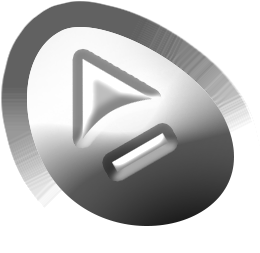
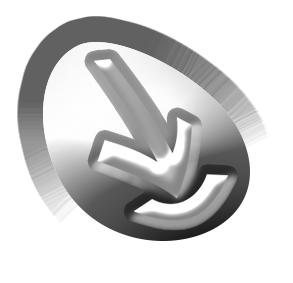
update music player body & dl button

diff --git a/main.js b/main.js
@@ -484,9 +484,8 @@ function checkCommand(input)
 let playPauseBtn = document.getElementById("old-play-pause-btn")
 let volumeSlider = document.getElementById("volume-slider")
 
-let progressBar = document.getElementById("progress-bar-container")
 let oldProgressBar = document.getElementById("old-progress-bar-container")
-let progressFill = document.getElementById("old-progress-bar-fill")
+let oldProgressFill = document.getElementById("old-progress-bar-fill")
 let curTrackText = document.getElementById("cur-track-info")
 
 //load a random song
@@ -521,7 +520,7 @@ let visualiserCanvas = document.getElementById("visualiser")
 let canvasContext = visualiserCanvas.getContext("2d")
 canvasContext.fillStyle = "black"
 
-let artistLink = document.getElementById("artist-link-container").querySelector("a")
+//let artistLink = document.getElementById("artist-link-container").querySelector("a")
 
 let playlistUl = document.getElementById("playlist-content")
 
@@ -592,8 +591,8 @@ function loadTrack()
 		else playlistEntries.item(i).style.backgroundColor = "transparent";
 	}
 
-	artistLink.querySelector("p").textContent = trackList[curIndex].linkName
-	artistLink.href = trackList[curIndex].link 
+	// artistLink.querySelector("p").textContent = trackList[curIndex].linkName
+	// artistLink.href = trackList[curIndex].link 
 }
 
 //curTrack.addEventListener("ended", nextTrack)
@@ -847,7 +846,7 @@ function onFinishSettingVolume()
 function updateProgress()
 {
 	let progress = curTrack.currentTime / curTrack.duration;
-	progressFill.style.width = progress * oldProgressBar.offsetWidth + "px";
+	oldProgressFill.style.width = progress * oldProgressBar.offsetWidth + "px";
 
 	//set time
 	let timeStrings = parseTime(curTrack.currentTime)
@@ -855,7 +854,7 @@ function updateProgress()
 
 	curTimeEl.textContent = timeStrings.min + ":" + timeStrings.sec;
 	miniCurTime.textContent = timeStrings.min + ":" + timeStrings.sec;
-	//console.log("updated progress, progress = " + progress + ", width = " + progressFill.style.width)
+	//console.log("updated progress, progress = " + progress + ", width = " + oldPprogressFill.style.width)
 }
 
 function setProgress(el)

diff --git a/index.html b/index.html
@@ -54,7 +54,8 @@
 			</div>
 
 			<div id="progress-bar-container">
-				<img src="img/music-player-components/progress_bar.png" style="width: 100%">
+				<img src="img/music-player-components/progress_bar.png" style="position: absolute; width: 100%;">
+				<img id="progress-bar-fill" src="img/music-player-components/progress_bar_fill.png" style="position: absolute; width: 10%; z-index: -1;">
 			</div>
 
 			<div id="shuffle-loop-container">
@@ -63,11 +64,6 @@
 			</div>
 
 			<div id="playback-controls">
-				<!-- <button onclick="prevTrack()"><img src="img/music-player-components/prev.png"></button>
-				<button onclick="playTrack()"><img src="img/music-player-components/play.png"></button>
-				<button onclick="pauseTrack()"><img src="img/music-player-components/pause.png"></button>
-				<button onclick="stopTrack()"><img src="img/music-player-components/stop.png"></button>
-				<button onclick="nextTrack()"><img src="img/music-player-components/next.png"></button> -->
 				<button onclick="prevTrack()"><img src="img/btns-shaded/prev2.png"></button>
 				<button onclick="playTrack()"><img src="img/btns-shaded/play2.png"></button>
 				<button onclick="pauseTrack()"><img src="img/btns-shaded/pause2.png"></button>
@@ -77,15 +73,14 @@
 
 			<div id="dl-button-container">
 				<a href="https://www.mediafire.com" target="_blank">
-					<img src="img/music-player-components/dl_button.png">
+					<button id="dl-btn"><img src="img/music-player-components/dl_button.png"></button>
 				</a>
 			</div>
 
 			<div id="artist-link-container">
-				<a target="_blank">
-					<!-- <img src="img/music-player-components/volume_bar.png"> -->
-					<p></p>
-				</a>
+				<!-- <p><a href="https://grasps.bandcamp.com/" target="_blank">grasps.bandcamp.com</a> <a href="https://soundcloud.com/nerdiecuzz" target="_blank">soundcloud.com/nerdiecuzz</a></p> -->
+				<p><a href="https://soundcloud.com/nerdiecuzz" target="_blank">soundcloud.com/nerdiecuzz</a></p>
+
 			</div>
 
 			<div id="playlist-container">

diff --git a/style.css b/style.css
@@ -25,7 +25,7 @@ body
 	--mono-font: "Input-Mono", "Courier New", monospace;
 	--lain-font: "LoveLetter", "Courier New", monospace;
 
-	--music-player-body: url("img/marble_frame.png");
+	--music-player-body: url("img/player_marble_artistlink.png");
 }
 
 p, label, button, option, ul
@@ -423,6 +423,8 @@ hr /*temp*/
 	top: 3%;
 	left: 20%;
 	z-index: 7; 
+
+	text-shadow: 0 0 5px #e1e4eb, 0 0 15px #e1e4eb; 
 /*	--music-player-bg: ghostwhite;
 	--music-player-bg-opacity: 1; */
 }
@@ -634,7 +636,8 @@ so that texts of variable lengths can be scrolled*/
 
 /*pressed down animation*/
 #playback-controls button:active,
-#shuffle-loop-container button:active
+#shuffle-loop-container button:active,
+#dl-button-container button:active
 {
 	transform: translate(1px, 2px);
 	/*box-shadow:  -1px -2px 2px dimgray;*/
@@ -643,24 +646,38 @@ so that texts of variable lengths can be scrolled*/
 #dl-button-container
 {
 	position: absolute;
-	left: 85%; right: 7%; top: 22%; bottom: 69%;
+	left: 85%; right: 7%; top: 21%; bottom: 70%;
+}
+
+#dl-button-container a, #dl-button-container button
+{
+	width: 100%; height: 100%;
+}
+
+#dl-button-container button 
+{
+	outline: none; background: transparent;border: none; 
+	margin: 0; padding: 0; border: 0; cursor: pointer;
 }
 
 #artist-link-container
 {
 	position: absolute;
 	left: 27%; right: 20%; top: 40%; bottom: 54%;
-	background-color: #e1e4eb; border-radius: 10px;
+	/* background-color: #e1e4eb; border-radius: 10px; */
+
+	display: flex; align-items: center; justify-content: center; font-size: 13px; text-align: center;
 }
 
-#artist-link-container a 
+#artist-link-container a {color: black;}
+/* #artist-link-container a 
 {
 	display: block; 
 	width: 100%; height: 100%; text-decoration: none;
 	display: flex; align-items: center; justify-content: center;
 }
 
-#artist-link-container p {font-size: 13px;}
+#artist-link-container p {font-size: 13px;} */
 
 #playlist-container
 {
